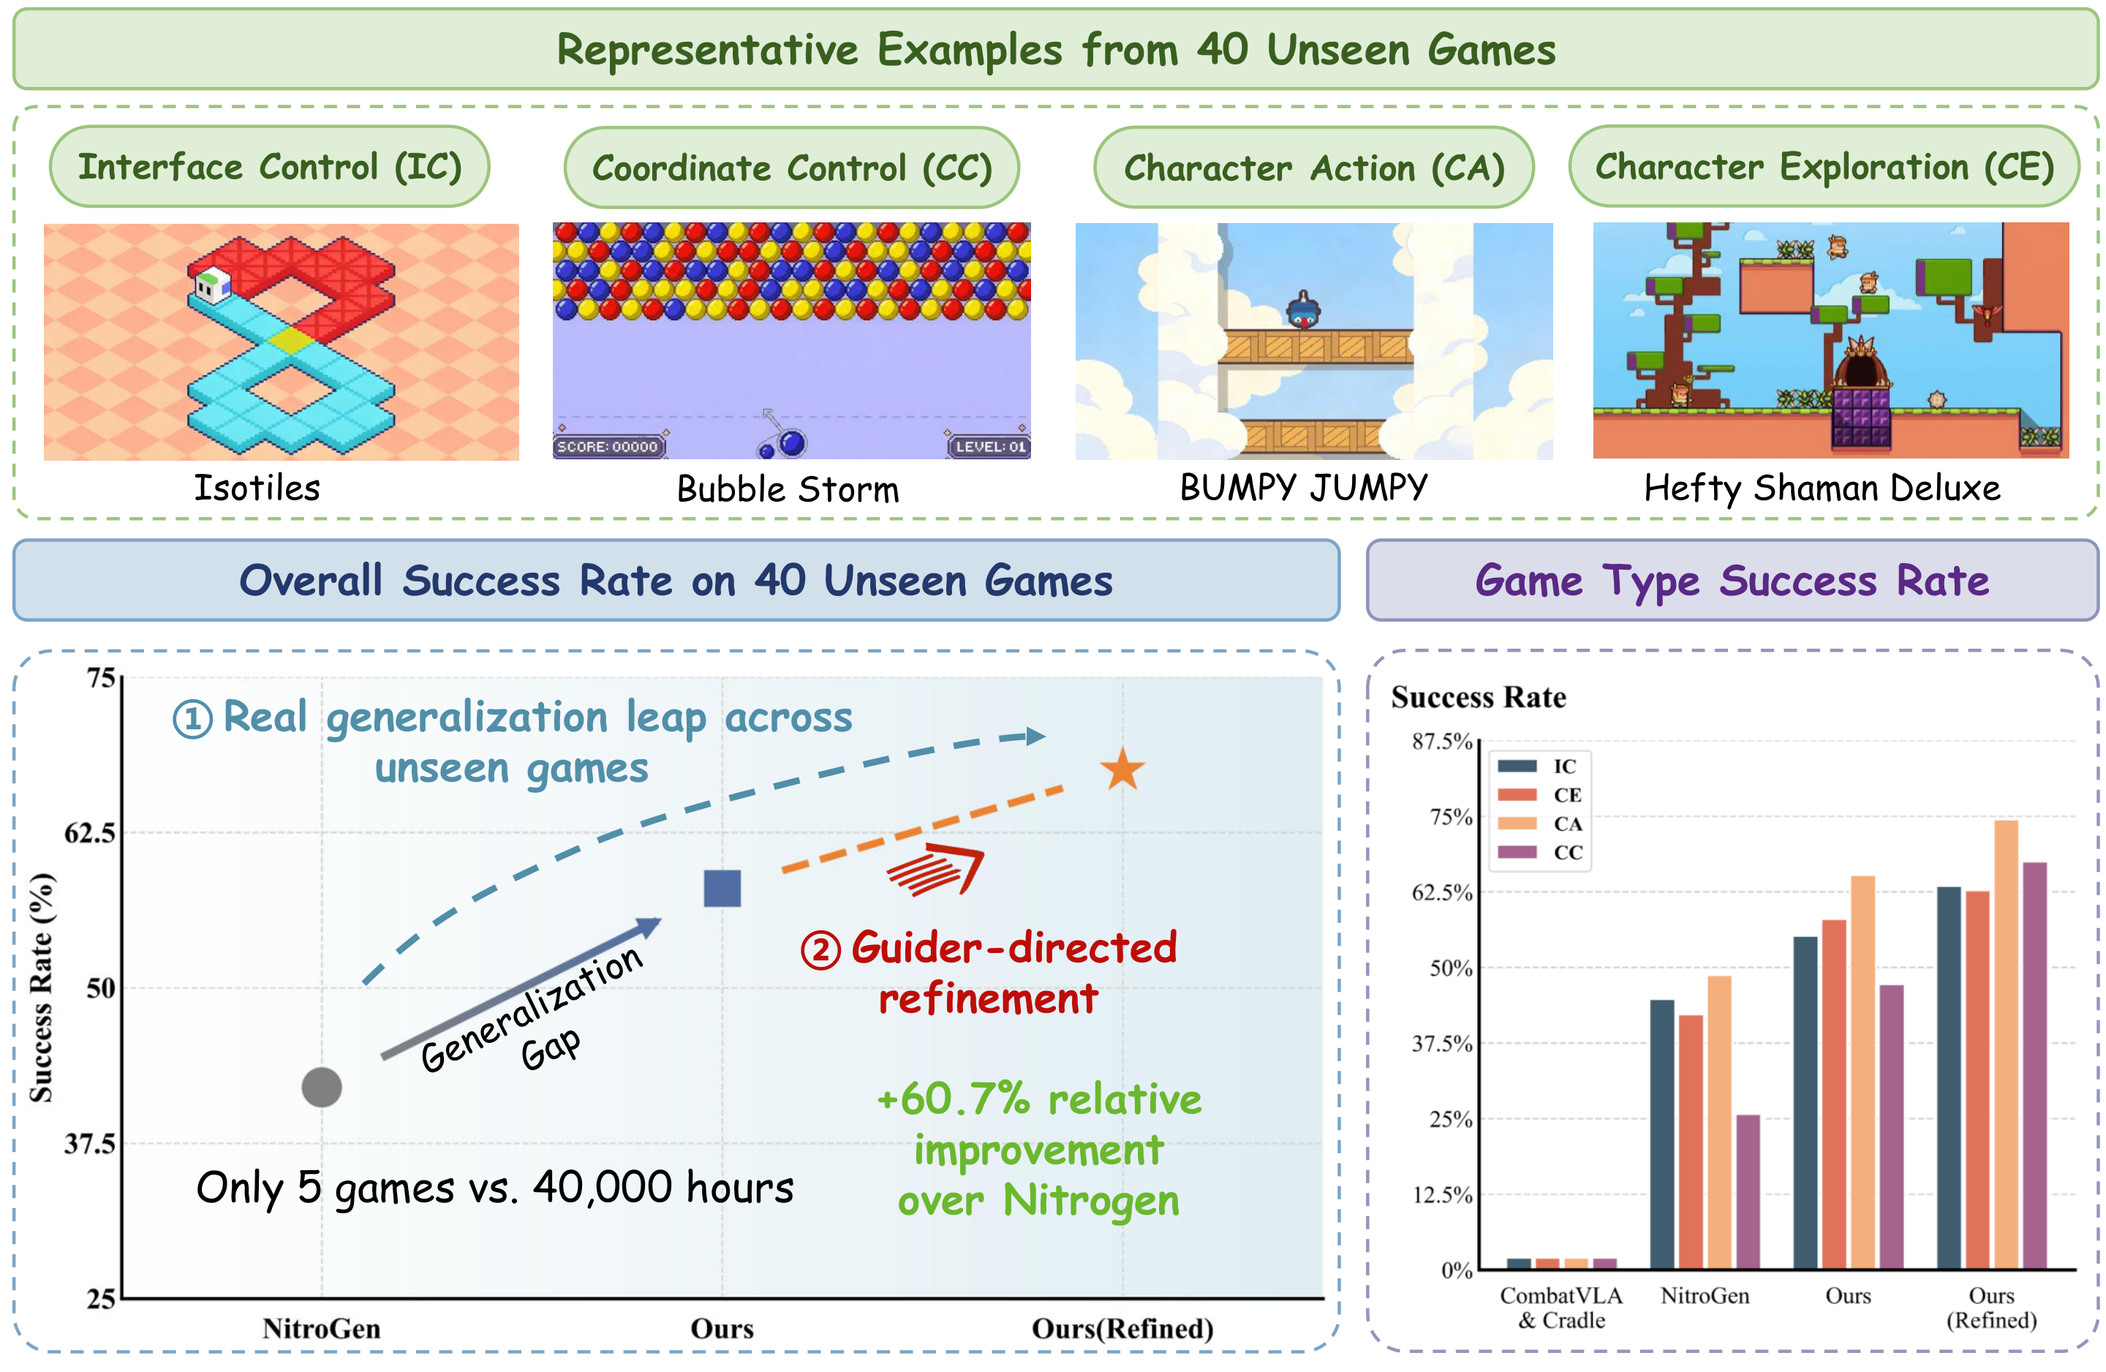
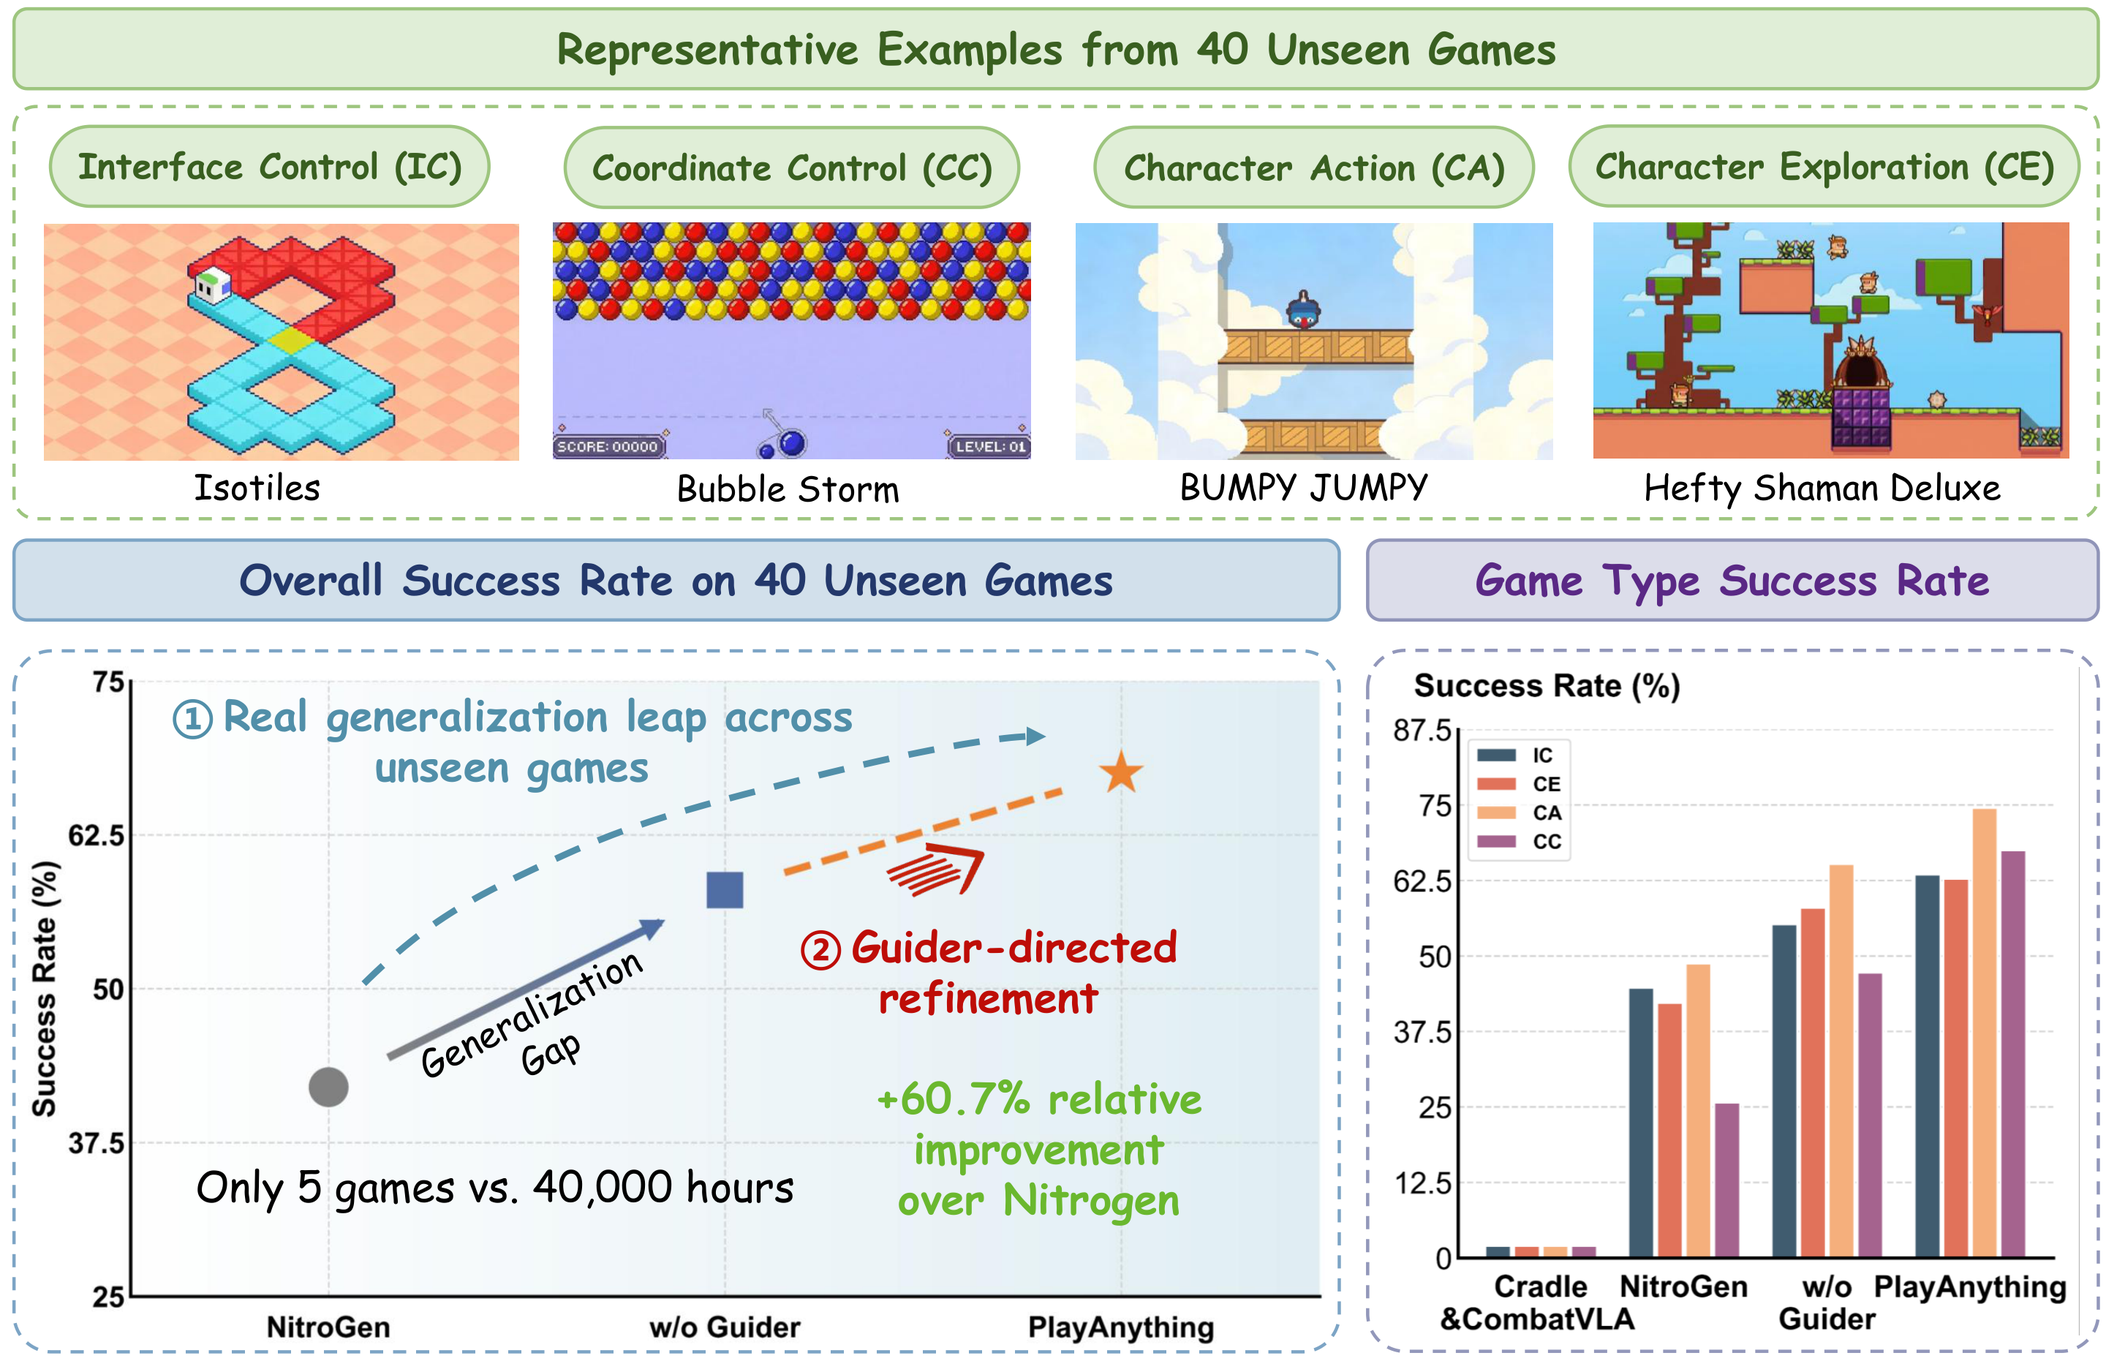
Update website content to match latest MM26 paper

diff --git a/docs/index.html b/docs/index.html
@@ -85,13 +85,13 @@
                 <h2 class="title is-3">Abstract</h2>
                 <div class="content has-text-justified">
                     <p>
-                        Vision-language model (VLM) driven game agents have shown strong performance in specific games, yet existing frameworks require extensive manual crafting of game-specific prompts and action functions. This reliance results in near-zero cross-game generalization. Therefore, we propose <b>PlayAnything</b>, a plug-and-play multimodal prompt adaptation framework that enables VLM agents to generalize to diverse, unseen games. By combining automatic prompt generation with guided non-expert refinement, PlayAnything reduces deployment effort from hours of expert programming to a streamlined human-AI collaborative pipeline.
+                        Vision-language model (VLM) driven game agents have shown strong performance in specific games; however, existing frameworks require extensive manual customization for each new game, including game-specific prompts and action functions. This dependence results in near-zero cross-game generalization. To address this limitation, we propose <b>PlayAnything</b>, a plug-and-play multimodal prompt adaptation framework that enables VLM-based agents to generalize to diverse unseen games.
                     </p>
                     <p>
-                        Specifically, PlayAnything consists of three complementary modules: i) <b>Gather</b>, a multimodal retriever that constructs structured game profiles from gameplay videos, screenshots, and strategy texts; ii) <b>Adapter</b>, a core module fine-tuned on Qwen3-VL-8B that transforms these profiles into executable prompts and action functions; and iii) <b>Guider</b>, a post-generation verification module that cross-references outputs with raw profiles to provide targeted improvement suggestions for human users.
+                        Specifically, PlayAnything consists of three complementary modules: i) <b>Gather</b>, a multimodal retriever that constructs structured game profiles from gameplay videos, screenshots, and strategy texts; ii) <b>Adapter</b>, a core module fine-tuned on Qwen3-VL-8B that transforms these profiles into executable pre-filled prompts and action functions; and iii) <b>Guider</b>, a suggestion module that provides targeted improvement suggestions for humans to refine the pre-filled prompts via cross-reference coverage analysis.
                     </p>
                     <p>
-                        Experiments demonstrate that PlayAnything, trained on only 5 games, achieves 100% runnability and an average success rate of 58% across 40 unseen games. This drastically outperforms existing baselines&mdash;where Cradle and CombatVLA score 0%, and the massive NitroGen reaches only 42%&mdash;achieving superior generalization with orders-of-magnitude less training data (5 games vs. 40,000 hours). Furthermore, with Guider-directed refinement requiring a median of only 136 character edits, the average success rate further rises to 67.5%, peaking at 92% on Level 2 tasks. We will open-source all resources.
+                        Experiments demonstrate that PlayAnything, trained on only 5 games, achieves 100% runnability and an average success rate of 58% across 40 unseen games. It substantially outperforms existing baselines: Cradle and CombatVLA both achieve 0%, while the much larger NitroGen reaches only 42%. These results demonstrate superior generalization with orders of magnitude less training data. Furthermore, with guidance from the Guider module, humans need to make only 136 character-level modifications on average to the pre-filled prompts, which further increases the average success rate to 67.5%. We will open-source all resources.
                     </p>
                 </div>
             </div>
@@ -110,7 +110,7 @@
                 <div style="text-align: center; margin: 1em 0;">
                     <img src="./images/framework_overview.png" alt="PlayAnything Framework Overview" style="max-width: 95%; border-radius: 8px;">
                     <p style="color: #666; font-size: 0.9em; margin-top: 8px;">
-                        Overview of the PlayAnything framework. 1) Gather retrieves multimodal game information and constructs a structured game profile. 2) Adapter, fine-tuned on only 5 training games, transforms the profile into all prompts and action functions required by the Cradle agent framework. 3) Guider then verifies outputs of the Adapter against the original game profile and produces targeted improvement suggestions for human-AI collaborative refinement.
+                        Overview of our PlayAnything. 1) Gather retrieves multimodal game information. 2) Adapter produces pre-filled prompts and action functions. 3) Guider produces targeted improvement suggestions for human-AI collaborative refinement.
                     </p>
                 </div>
 
@@ -123,12 +123,12 @@
                     <div class="module-card">
                         <div class="module-icon">&#x2699;</div>
                         <h4>Adapter</h4>
-                        <p>Fine-tuned on Qwen3-VL-8B-Instruct with only 5 training games. Transforms multimodal game profiles into structured JSON prompts and Python action functions.</p>
+                        <p>Fine-tuned on Qwen3-VL-8B-Instruct with only 5 training games. Takes multimodal game profiles as input and generates pre-filled prompts and executable action functions for the target agent framework.</p>
                     </div>
                     <div class="module-card">
                         <div class="module-icon">&#x1F9ED;</div>
                         <h4>Guider</h4>
-                        <p>Performs cross-reference coverage analysis between Adapter outputs and raw game profiles. Outputs structured improvement suggestions for efficient human refinement.</p>
+                        <p>Conducts cross-reference coverage analysis between Adapter outputs and raw game profiles. Provides structured improvement suggestions for efficient human-AI collaborative prompt refinement.</p>
                     </div>
                 </div>
 
@@ -188,16 +188,8 @@
                                 <td>3.0</td>
                                 <td>42.0</td>
                             </tr>
-                            <tr class="ours">
-                                <td>Ours</td>
-                                <td>100.0</td>
-                                <td>81.0</td>
-                                <td>40.0</td>
-                                <td>11.0</td>
-                                <td>58.0</td>
-                            </tr>
                             <tr class="ours-refined">
-                                <td>Ours (Refined)</td>
+                                <td><b>PlayAnything</b></td>
                                 <td><b>100.0</b></td>
                                 <td><b>92.0</b></td>
                                 <td><b>55.0</b></td>
@@ -210,9 +202,9 @@
 
                 <div class="content has-text-justified" style="margin-top: 1.5em;">
                     <ol>
-                        <li><b>PlayAnything overcomes the zero-generalization barrier.</b> Both Cradle and CombatVLA achieve 0% Runnability (SR<sub>1</sub>), confirming that existing modular frameworks and specialized VLAs fail to launch unseen games or transfer skills across types. In contrast, Ours achieves 100% Runnability across all 40 test games by automatically generating valid action spaces and prompt structures.</li>
-                        <li><b>Our Adapter outperforms large-scale foundation models with a fraction of the data.</b> Compared to NitroGen (pre-trained on 40,000 hours of gameplay), Ours (trained on only 5 games) elevates the overall average success rate from 42.0% to 58.0%. This advantage is most pronounced in Coordinate Control games, where NitroGen collapses to near 25% due to its rigid gamepad primitives, whereas PlayAnything adaptively grounds interaction logic in visual coordinates.</li>
-                        <li><b>Guider-directed refinement unlocks peak performance with minimal human effort.</b> With lightweight strategic intervention (median Edit Distance of only 136 characters), Ours (Refined) further pushes the Level 2 success rate to 92.0% and the overall average to 67.5%. These results confirm that our framework effectively shifts the human role from redundant programming to high-level strategic correction.</li>
+                        <li><b>PlayAnything overcomes the zero-generalization barrier.</b> Both Cradle and CombatVLA achieve 0% Runnability (i.e., SR<sub>1</sub>), confirming that modular frameworks and specialized VLAs fail to launch unseen games or transfer skills across types. In contrast PlayAnything achieves 100% Runnability across all 40 test games by automatically generating valid action spaces and prompt structures.</li>
+                        <li><b>PlayAnything outperforms large-scale foundation models with a fraction of the data.</b> Compared to NitroGen (pre-trained on 40,000 hours of gameplay), our PlayAnything framework (trained on only 5 games) elevates the overall average success rate from 42.0% to 67.5%. This advantage is most pronounced in Coordinate Control games, where NitroGen collapses to near 25.8% due to its rigid gamepad primitives, whereas PlayAnything adaptively grounds interaction logic in visual coordinates to achieve robust generalization.</li>
+                        <li><b>Guider-directed refinement unlocks peak performance with minimal human effort.</b> With lightweight strategic intervention (median Edit Distance of only 136 characters), PlayAnything further pushes the Level 2 success rate to 92.0%. These results confirm that our framework effectively shifts the human role from redundant programming to high-level strategic correction, allowing the agent to resolve complex semantic bottlenecks that are typically inaccessible to pure end-to-end models.</li>
                     </ol>
                 </div>
             </div>
@@ -245,26 +237,26 @@
                             <tr><td rowspan="4">Interface Control (8)</td>
                                 <td>Cradle & CombatVLA</td><td>0.0</td><td>0.0</td><td>0.0</td><td>0.0</td><td>0.0</td></tr>
                             <tr><td>NitroGen</td><td>100.0</td><td>59.0</td><td>18.0</td><td>2.0</td><td>44.8</td></tr>
-                            <tr class="ours"><td>Ours</td><td>100.0</td><td>77.0</td><td>38.0</td><td>6.0</td><td>55.3</td></tr>
-                            <tr class="ours-refined"><td>Ours (Refined)</td><td><b>100.0</b></td><td><b>90.0</b></td><td><b>49.0</b></td><td><b>15.0</b></td><td><b>63.5</b></td></tr>
+                            <tr class="ours"><td>w/o Guider</td><td>100.0</td><td>77.0</td><td>38.0</td><td>6.0</td><td>55.3</td></tr>
+                            <tr class="ours-refined"><td><b>PlayAnything</b></td><td><b>100.0</b></td><td><b>90.0</b></td><td><b>49.0</b></td><td><b>15.0</b></td><td><b>63.5</b></td></tr>
 
                             <tr><td rowspan="4">Char. Exploration (12)</td>
                                 <td>Cradle & CombatVLA</td><td>0.0</td><td>0.0</td><td>0.0</td><td>0.0</td><td>0.0</td></tr>
                             <tr><td>NitroGen</td><td>100.0</td><td>50.0</td><td>14.0</td><td>5.0</td><td>42.3</td></tr>
-                            <tr class="ours"><td>Ours</td><td>100.0</td><td>87.0</td><td>38.0</td><td>8.0</td><td>58.3</td></tr>
-                            <tr class="ours-refined"><td>Ours (Refined)</td><td><b>100.0</b></td><td><b>91.0</b></td><td><b>44.0</b></td><td><b>16.0</b></td><td><b>62.8</b></td></tr>
+                            <tr class="ours"><td>w/o Guider</td><td>100.0</td><td>87.0</td><td>38.0</td><td>8.0</td><td>58.3</td></tr>
+                            <tr class="ours-refined"><td><b>PlayAnything</b></td><td><b>100.0</b></td><td><b>91.0</b></td><td><b>44.0</b></td><td><b>16.0</b></td><td><b>62.8</b></td></tr>
 
                             <tr><td rowspan="4">Char. Action (13)</td>
                                 <td>Cradle & CombatVLA</td><td>0.0</td><td>0.0</td><td>0.0</td><td>0.0</td><td>0.0</td></tr>
                             <tr><td>NitroGen</td><td>100.0</td><td>66.0</td><td>25.0</td><td>5.0</td><td>49.0</td></tr>
-                            <tr class="ours"><td>Ours</td><td>100.0</td><td>91.0</td><td>53.0</td><td>17.0</td><td>65.3</td></tr>
-                            <tr class="ours-refined"><td>Ours (Refined)</td><td><b>100.0</b></td><td><b>99.0</b></td><td><b>68.0</b></td><td><b>32.0</b></td><td><b>74.8</b></td></tr>
+                            <tr class="ours"><td>w/o Guider</td><td>100.0</td><td>91.0</td><td>53.0</td><td>17.0</td><td>65.3</td></tr>
+                            <tr class="ours-refined"><td><b>PlayAnything</b></td><td><b>100.0</b></td><td><b>99.0</b></td><td><b>68.0</b></td><td><b>32.0</b></td><td><b>74.8</b></td></tr>
 
                             <tr><td rowspan="4">Coord. Control (7)</td>
                                 <td>Cradle & CombatVLA</td><td>0.0</td><td>0.0</td><td>0.0</td><td>0.0</td><td>0.0</td></tr>
                             <tr><td>NitroGen</td><td>100.0</td><td>3.0</td><td>0.0</td><td>0.0</td><td>25.8</td></tr>
-                            <tr class="ours"><td>Ours</td><td>100.0</td><td>59.0</td><td>23.0</td><td>7.0</td><td>47.3</td></tr>
-                            <tr class="ours-refined"><td>Ours (Refined)</td><td><b>100.0</b></td><td><b>81.0</b></td><td><b>60.0</b></td><td><b>29.0</b></td><td><b>67.5</b></td></tr>
+                            <tr class="ours"><td>w/o Guider</td><td>100.0</td><td>59.0</td><td>23.0</td><td>7.0</td><td>47.3</td></tr>
+                            <tr class="ours-refined"><td><b>PlayAnything</b></td><td><b>100.0</b></td><td><b>81.0</b></td><td><b>60.0</b></td><td><b>29.0</b></td><td><b>67.5</b></td></tr>
                         </tbody>
                     </table>
                 </div>
@@ -281,11 +273,9 @@
             <div class="column is-full-width">
                 <h2 class="title is-3" style="text-align: center;">Conclusion</h2>
                 <div class="content has-text-justified">
-                    <ol>
-                        <li><b>Multimodal adaptation enables effective generalization with minimal data.</b> Learning prompt generation from just 5 games allows PlayAnything to generalize across 40 unseen titles. This proves structured adaptation is a highly efficient alternative to massive pre-training, eliminating the need for per-game manual engineering.</li>
-                        <li><b>A new large-scale benchmark validates cross-type robustness.</b> We contribute a 45-game benchmark across four types&mdash;4&times; the scale of prior state-of-the-art evaluations. Results demonstrate PlayAnything's robustness even in challenging scenarios like coordinate-based control, where fixed action-space models fail.</li>
-                        <li><b>Collaborative refinement empowers non-experts.</b> Our human-AI pipeline achieves a 67.5% success rate with a median of just 136 character edits. Coupled with our commitment to open-sourcing all resources, this drastically lowers the barrier to deploying and optimizing sophisticated VLM agents for any new game.</li>
-                    </ol>
+                    <p>
+                        In this paper, we present PlayAnything, a plug-and-play multimodal prompt adaptation framework designed to enable VLM-driven game agents to generalize across diverse unseen games without requiring labor-intensive per-game manual customization. Experiments show that training on only 5 games, PlayAnything reaches 100% runnability and 58% average success on 40 unseen games, clearly outperforming Cradle, CombatVLA, and the much larger NitroGen. This demonstrates strong cross-game generalization with far less training data. With Guider, only 136 character-level human edits on average further raise success to 67.5%, showing the practicality and efficiency of human-in-the-loop refinement. In future work, we plan to investigate fully autonomous iterative self-optimization and extend the framework to handle more complex 3D gaming environments.
+                    </p>
                 </div>
             </div>
         </div>
@@ -295,18 +285,6 @@
 
 <!-- ==================== FOOTER ==================== -->
 <footer class="footer">
-    <div class="container">
-        <div class="columns is-centered">
-            <div class="column is-8">
-                <div class="content" style="text-align: center;">
-                    <p>
-                        This website template is adapted from <a href="https://github.com/nerfies/nerfies.github.io">Nerfies</a>,
-                        licensed under a <a rel="license" href="http://creativecommons.org/licenses/by-sa/4.0/">Creative Commons Attribution-ShareAlike 4.0 International License</a>.
-                    </p>
-                </div>
-            </div>
-        </div>
-    </div>
 </footer>
 
 </body>
